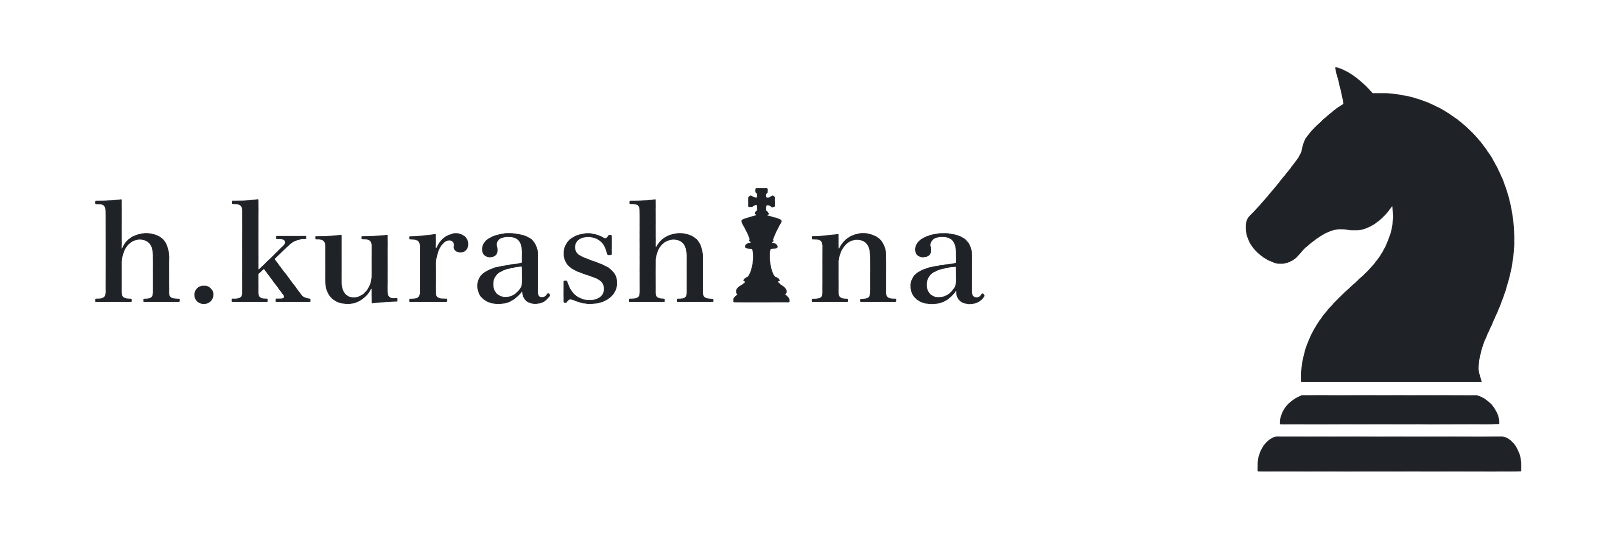
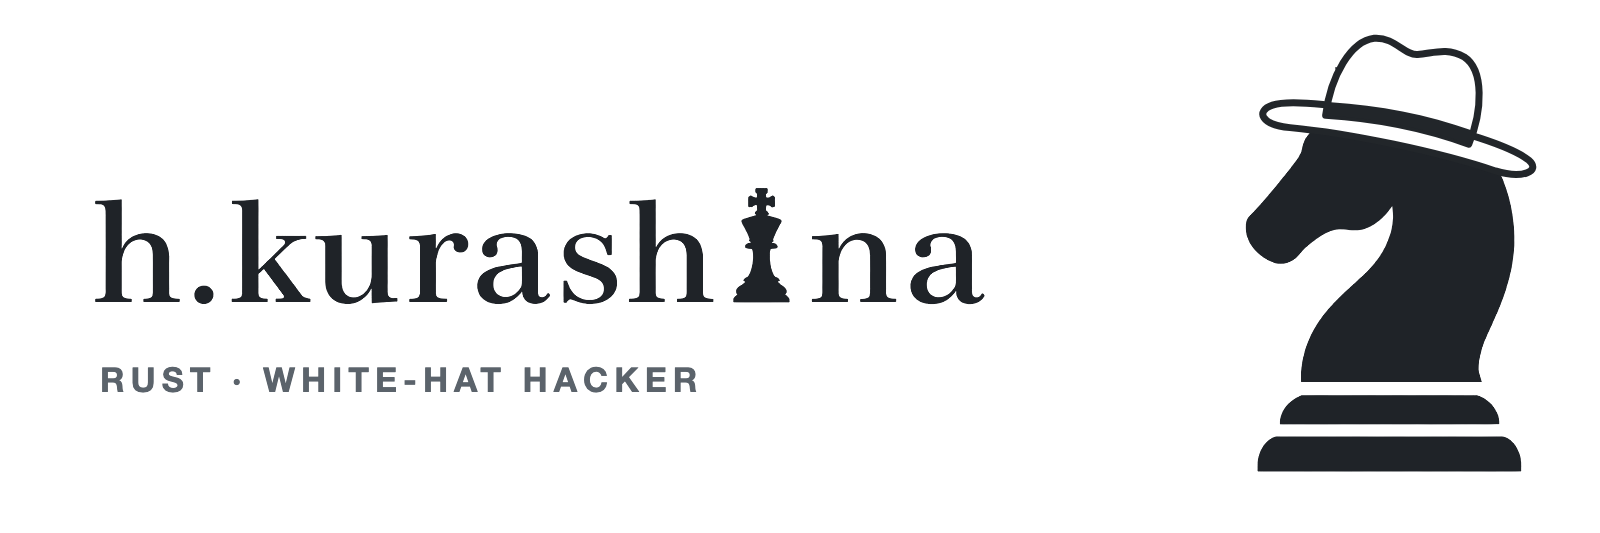
feat: Rust とホワイトハッカーを前に出し、会社名を外す
- バナーのナイトに白い帽子をかぶせ、名前の下に RUST · WHITE-HAT HACKER を足す
- 自己紹介から会社名（Beaulab）を外し、作品一覧の行も消す
- オープンソースの表を最新にする（rust-lang/rust#164910 は Merged、rustsec/advisory-db#3578 を追加）
- 趣味を「チェスと読書」に変える

Changed region(s): [[0.7812, 0.0901, 0.9688, 0.3302], [0.0625, 0.6904, 0.4375, 0.7505], [0.8438, 0.06, 0.875, 0.0901]]

diff --git a/README.md b/README.md
@@ -1,7 +1,7 @@
 <p align="center">
   <picture>
     <source media="(prefers-color-scheme: dark)" srcset="assets/banner-dark.png">
-    <img src="assets/banner-light.png" alt="h.kurashina — Software Engineer · Vulnerability Researcher" width="100%">
+    <img src="assets/banner-light.png" alt="h.kurashina — Rust · White-hat hacker (a chess knight wearing a white hat)" width="100%">
   </picture>
 </p>
 
@@ -14,7 +14,7 @@
 
 <p align="center">
   <a href="https://git.io/typing-svg">
-    <img src="https://readme-typing-svg.demolab.com?font=Fira+Code&weight=500&size=22&pause=1200&color=C4552A&center=true&vCenter=true&width=640&lines=Software+Engineer+%C2%B7+Vulnerability+Researcher;Contributor+to+the+Rust+compiler+(rustc);Building+liwin%3A+i3-style+tiling+for+GNOME" alt="Software Engineer · Vulnerability Researcher · Contributor to the Rust compiler">
+    <img src="https://readme-typing-svg.demolab.com?font=Fira+Code&weight=500&size=22&pause=1200&color=C4552A&center=true&vCenter=true&width=640&lines=Rust+Engineer+%C2%B7+White-hat+Hacker;Contributor+to+the+Rust+compiler+(rustc);Building+liwin%3A+i3-style+tiling+for+GNOME" alt="Rust Engineer · White-hat Hacker · Contributor to the Rust compiler">
   </a>
 </p>
 
@@ -26,26 +26,27 @@
 
 ## Hi! I'm h.kurashina
 
-Software Engineer / Vulnerability Researcher / Business Lead.
-I lead a startup's product, **Beaulab**, as both engineer and business owner,
-and I spend the rest of my time on **Rust, open source and security research**.
+Rust engineer and white-hat hacker.
+By day I build a startup's product as both engineer and business owner;
+the rest of my time goes into **Rust, open source and responsible security research**.
 
 - 🦀 Contributor to the Rust compiler (rustc)
 - 🌱 Focusing on contributing to existing open source, including the Rust ecosystem and RustSec
 - 🛡 Rewriting C libraries in Rust for memory safety, as part of kura-rs: [kura-rs/cjson](https://github.com/kura-rs/cjson) is a hand-written Rust port of cJSON
-- 🔐 Vulnerability researcher: I find issues in open-source software, report them to the maintainers and help get fixes published
+- 🎩 White-hat hacker: I find vulnerabilities in open-source software, report them privately to the maintainers and help get fixes and advisories published
 - 🪟 Currently building [**liwin**](https://github.com/hina-kura49/liwin), an AeroSpace-like tiling window manager for GNOME on Wayland
 - 🔭 Interested in AI & web security testing, low-level systems, infrastructure and competitive programming
-- ♟ Off the keyboard: chess and Hack The Box
+- ♟ Off the keyboard: chess and reading
 
 ## Open source
 
 | When | Contribution | Where | Status |
 |---|---|---|---|
+| 2026-11 | Reported four ways to cause undefined behavior from safe code in `yaxpeax-x86` (fixed upstream in 2.2.1) and filed a RustSec advisory | [rustsec/advisory-db#3578](https://github.com/rustsec/advisory-db/pull/3578) | In review |
 | 2026-11 | Reported a missing safety condition in the `Searcher` contract that `str::split` relies on; fixed by another contributor in rust-lang/rust#165681 | [rust-lang/rust#164904](https://github.com/rust-lang/rust/issues/164904) | Resolved |
 | 2026-10 | Don't suggest replacing foreign format specifiers in `concat!` output | [rust-lang/rust#163371](https://github.com/rust-lang/rust/pull/163371) | Merged |
 | 2026-10 | Don't build format string suggestions from `concat!` offsets (fixes an ICE) | [rust-lang/rust#163368](https://github.com/rust-lang/rust/pull/163368) | Merged |
-| 2026-10 | Add regression tests for #164253 | [rust-lang/rust#164910](https://github.com/rust-lang/rust/pull/164910) | In review |
+| 2026-10 | Add regression tests for #164253 | [rust-lang/rust#164910](https://github.com/rust-lang/rust/pull/164910) | Merged |
 | 2026-09 | Output test binary to the temporary directory in `test-expand.sh` | [rust-lang-ja/ac-library-rs#183](https://github.com/rust-lang-ja/ac-library-rs/pull/183) | In review |
 | 2026-09 | Avoid cloning cached test item names in `is_in_test` | [rust-lang/rust-clippy#17774](https://github.com/rust-lang/rust-clippy/pull/17774) | In review |
 
@@ -63,7 +64,6 @@ Certified hacker by the Japan Hacker Association. Experience with web penetratio
 
 | Project | What it is | Tech |
 |---|---|---|
-| [Beaulab](https://beaulab.jp) | Social platform for beauty clinics: discover clinics through reviews and posts, then book and message them | Next.js, React Native / Expo |
 | [liwin](https://github.com/hina-kura49/liwin) | AeroSpace-like tiling for GNOME on Wayland: a Rust daemon plus a thin GNOME Shell extension | Rust, TypeScript |
 | [Jot](https://github.com/hina-kura49/jot) | macOS note-taking app that keeps notes as plain Markdown files in a vault folder: Notion-style block editing, slash commands, quick capture and Google Calendar sync | Tauri 2, Rust, TypeScript |
 | [git-trail](https://github.com/hina-kura49/git-trail) | Local CLI that reconstructs the history of a Git worktree as timestamped checkpoints; `cargo install git-trail` | Rust |
